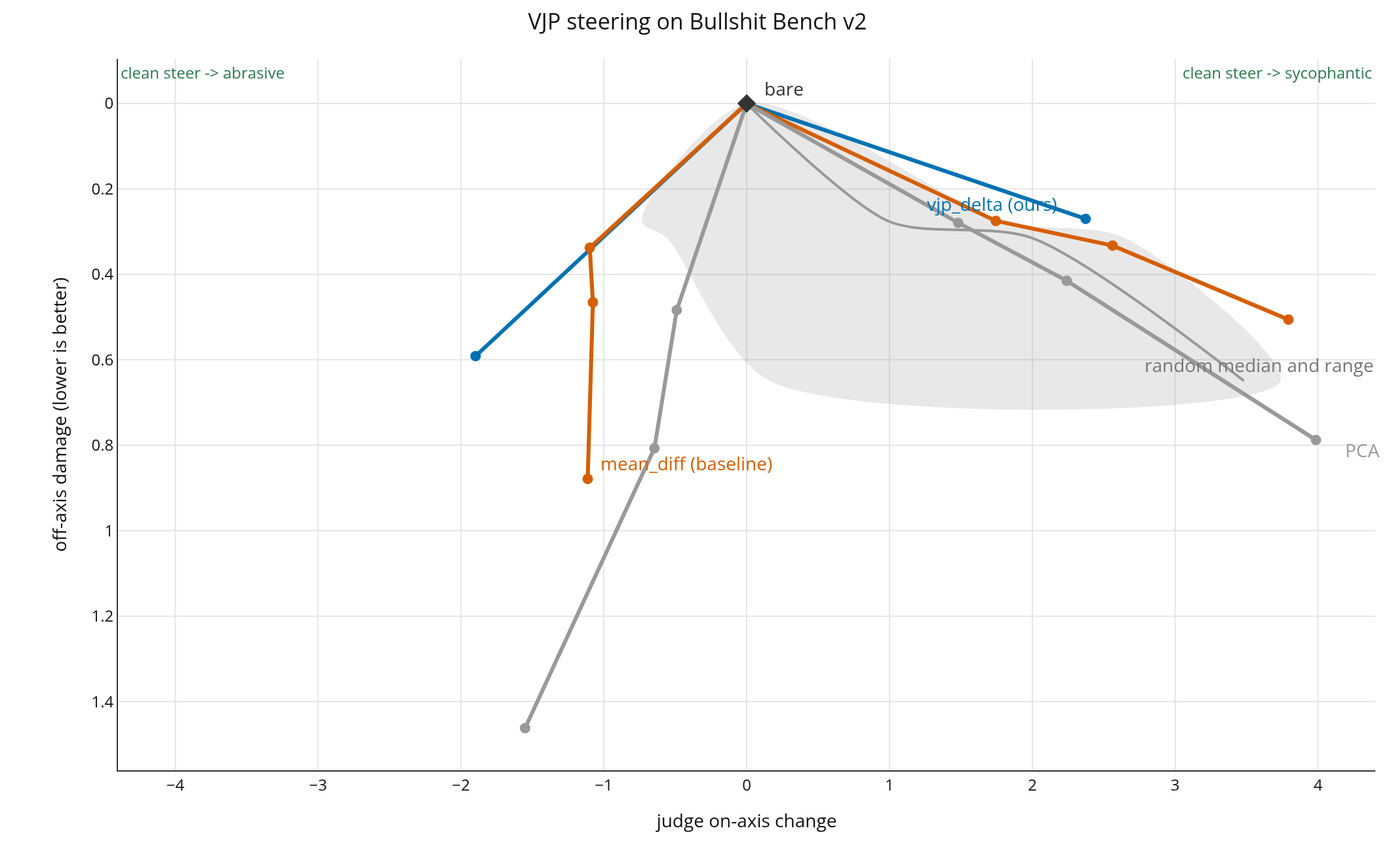
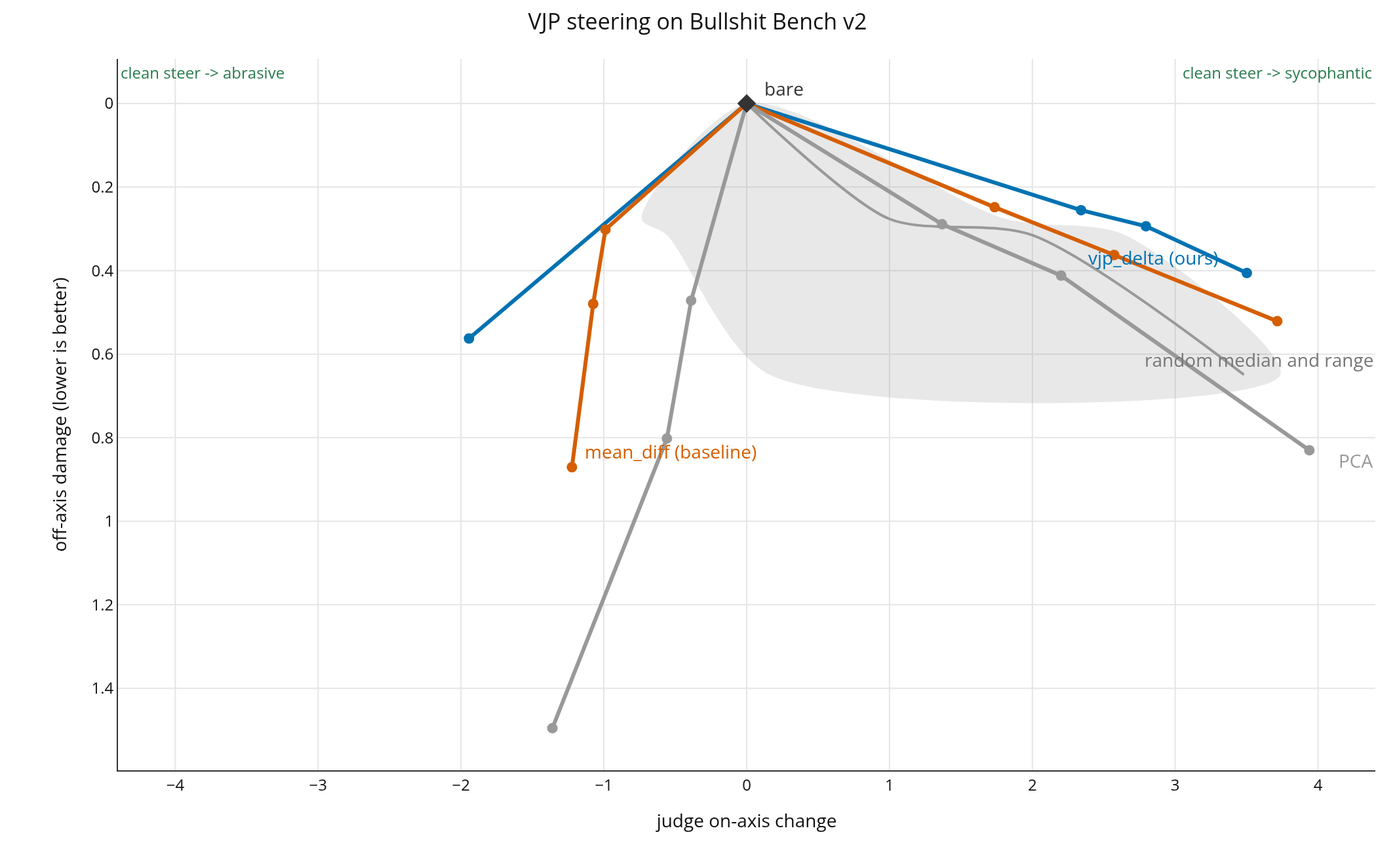
Plot three-seed method means

diff --git a/results.html b/results.html
@@ -1,2 +1,2 @@
-<!doctype html><meta charset='utf-8'><title>j-steer results</title><style>body{font:16px system-ui;max-width:900px;margin:2rem auto}table{border-collapse:collapse}th,td{padding:.35rem .7rem;border-bottom:1px solid #ccc}th{text-align:left}img{max-width:100%}</style><h1>Results</h1><p>All rows use the same all-100 evaluation cohort. The figure shows both steering directions. The random cone shows ten vectors until fewer than half have two coherent arms. The table reports rejected arms.</p><div style="height:658px; width:1064px;">                        <script>window.PlotlyConfig = {MathJaxConfig: 'local'};</script>
-        <script charset="utf-8" src="https://cdn.plot.ly/plotly-3.7.0.min.js" integrity="sha256-jvTGqxNp8AGWEcvNLVuKr+8j5dGe9Yw51LQkmDH+IYA=" crossorigin="anonymous"></script>                <div id="2fdaddd0-cabd-411b-9054-f637d6e48518" class="plotly-graph-div" style="height:100%; width:100%;"></div>            <script>                window.PLOTLYENV=window.PLOTLYENV || {};                                if (document.getElementById("2fdaddd0-cabd-411b-9054-f637d6e48518")) {                    Plotly.newPlot(                        "2fdaddd0-cabd-411b-9054-f637d6e48518",                        [{"fill":"toself","fillcolor":"rgba(150,150,150,0.22)","hoverinfo":"skip","line":{"color":"rgba(150,150,150,0)","shape":"spline","smoothing":0.8,"width":0},"showlegend":false,"x":[0.0,-0.73525,-0.558,0.16175,3.7377499999999997,2.65025,1.8062499999999997,0.0],"y":[0.0,0.27549999999999997,0.31499999999999995,0.6492500000000001,0.6492500000000001,0.31499999999999995,0.27549999999999997,0.0],"type":"scatter"},{"hoverinfo":"skip","line":{"color":"#999999","shape":"spline","smoothing":0.8,"width":2},"mode":"lines","showlegend":false,"x":[0,0.0,0.9933749999999999,1.9989999999999999,3.4811249999999996],"y":[0,0.0,0.27549999999999997,0.31499999999999995,0.6492500000000001],"type":"scatter"},{"hovertemplate":"vjp_delta (ours)\u003cbr\u003e%{text}\u003cbr\u003eeffect=%{x:.3f}\u003cbr\u003edamage=%{y:.3f}\u003cextra\u003e\u003c\u002fextra\u003e","line":{"color":"#0072b2","width":3},"marker":{"color":"#0072b2","size":8},"mode":"lines+markers","showlegend":false,"text":["bare","C=0.176777"],"x":[0,2.373],"y":[0,0.27],"type":"scatter"},{"hovertemplate":"vjp_delta (ours)\u003cbr\u003e%{text}\u003cbr\u003eeffect=%{x:.3f}\u003cbr\u003edamage=%{y:.3f}\u003cextra\u003e\u003c\u002fextra\u003e","line":{"color":"#0072b2","width":3},"marker":{"color":"#0072b2","size":8},"mode":"lines+markers","showlegend":false,"text":["bare","C=0.176777"],"x":[0,-1.8977499999999998],"y":[0,0.59125],"type":"scatter"},{"hovertemplate":"mean_diff (baseline)\u003cbr\u003e%{text}\u003cbr\u003eeffect=%{x:.3f}\u003cbr\u003edamage=%{y:.3f}\u003cextra\u003e\u003c\u002fextra\u003e","line":{"color":"#d55e00","width":3},"marker":{"color":"#d55e00","size":8},"mode":"lines+markers","showlegend":false,"text":["bare","C=0.353553","C=0.5","C=0.707107"],"x":[0,1.7442499999999996,2.56125,3.7924999999999995],"y":[0,0.27475,0.3324999999999999,0.50575],"type":"scatter"},{"hovertemplate":"mean_diff (baseline)\u003cbr\u003e%{text}\u003cbr\u003eeffect=%{x:.3f}\u003cbr\u003edamage=%{y:.3f}\u003cextra\u003e\u003c\u002fextra\u003e","line":{"color":"#d55e00","width":3},"marker":{"color":"#d55e00","size":8},"mode":"lines+markers","showlegend":false,"text":["bare","C=0.353553","C=0.5","C=0.707107"],"x":[0,-1.0985,-1.0765,-1.1127500000000001],"y":[0,0.33775,0.46525000000000005,0.87875],"type":"scatter"},{"hovertemplate":"PCA\u003cbr\u003e%{text}\u003cbr\u003eeffect=%{x:.3f}\u003cbr\u003edamage=%{y:.3f}\u003cextra\u003e\u003c\u002fextra\u003e","line":{"color":"#999999","width":3},"marker":{"color":"#999999","size":8},"mode":"lines+markers","showlegend":false,"text":["bare","C=0.5","C=0.707107","C=1"],"x":[0,1.4807499999999996,2.241,3.9849999999999994],"y":[0,0.27925,0.4149999999999999,0.7875],"type":"scatter"},{"hovertemplate":"PCA\u003cbr\u003e%{text}\u003cbr\u003eeffect=%{x:.3f}\u003cbr\u003edamage=%{y:.3f}\u003cextra\u003e\u003c\u002fextra\u003e","line":{"color":"#999999","width":3},"marker":{"color":"#999999","size":8},"mode":"lines+markers","showlegend":false,"text":["bare","C=0.5","C=0.707107","C=1"],"x":[0,-0.48925,-0.64575,-1.5515],"y":[0,0.48349999999999993,0.8069999999999999,1.46225],"type":"scatter"},{"hoverinfo":"skip","marker":{"color":"#333333","size":11,"symbol":"diamond"},"mode":"markers","showlegend":false,"x":[0],"y":[0],"type":"scatter"}],                        {"template":{"data":{"histogram2dcontour":[{"type":"histogram2dcontour","colorbar":{"outlinewidth":0,"ticks":""},"colorscale":[[0.0,"#0d0887"],[0.1111111111111111,"#46039f"],[0.2222222222222222,"#7201a8"],[0.3333333333333333,"#9c179e"],[0.4444444444444444,"#bd3786"],[0.5555555555555556,"#d8576b"],[0.6666666666666666,"#ed7953"],[0.7777777777777778,"#fb9f3a"],[0.8888888888888888,"#fdca26"],[1.0,"#f0f921"]]}],"choropleth":[{"type":"choropleth","colorbar":{"outlinewidth":0,"ticks":""}}],"histogram2d":[{"type":"histogram2d","colorbar":{"outlinewidth":0,"ticks":""},"colorscale":[[0.0,"#0d0887"],[0.1111111111111111,"#46039f"],[0.2222222222222222,"#7201a8"],[0.3333333333333333,"#9c179e"],[0.4444444444444444,"#bd3786"],[0.5555555555555556,"#d8576b"],[0.6666666666666666,"#ed7953"],[0.7777777777777778,"#fb9f3a"],[0.8888888888888888,"#fdca26"],[1.0,"#f0f921"]]}],"heatmap":[{"type":"heatmap","colorbar":{"outlinewidth":0,"ticks":""},"colorscale":[[0.0,"#0d0887"],[0.1111111111111111,"#46039f"],[0.2222222222222222,"#7201a8"],[0.3333333333333333,"#9c179e"],[0.4444444444444444,"#bd3786"],[0.5555555555555556,"#d8576b"],[0.6666666666666666,"#ed7953"],[0.7777777777777778,"#fb9f3a"],[0.8888888888888888,"#fdca26"],[1.0,"#f0f921"]]}],"contourcarpet":[{"type":"contourcarpet","colorbar":{"outlinewidth":0,"ticks":""}}],"contour":[{"type":"contour","colorbar":{"outlinewidth":0,"ticks":""},"colorscale":[[0.0,"#0d0887"],[0.1111111111111111,"#46039f"],[0.2222222222222222,"#7201a8"],[0.3333333333333333,"#9c179e"],[0.4444444444444444,"#bd3786"],[0.5555555555555556,"#d8576b"],[0.6666666666666666,"#ed7953"],[0.7777777777777778,"#fb9f3a"],[0.8888888888888888,"#fdca26"],[1.0,"#f0f921"]]}],"surface":[{"type":"surface","colorbar":{"outlinewidth":0,"ticks":""},"colorscale":[[0.0,"#0d0887"],[0.1111111111111111,"#46039f"],[0.2222222222222222,"#7201a8"],[0.3333333333333333,"#9c179e"],[0.4444444444444444,"#bd3786"],[0.5555555555555556,"#d8576b"],[0.6666666666666666,"#ed7953"],[0.7777777777777778,"#fb9f3a"],[0.8888888888888888,"#fdca26"],[1.0,"#f0f921"]]}],"mesh3d":[{"type":"mesh3d","colorbar":{"outlinewidth":0,"ticks":""}}],"scatter":[{"fillpattern":{"fillmode":"overlay","size":10,"solidity":0.2},"type":"scatter"}],"parcoords":[{"type":"parcoords","line":{"colorbar":{"outlinewidth":0,"ticks":""}}}],"scatterpolargl":[{"type":"scatterpolargl","marker":{"colorbar":{"outlinewidth":0,"ticks":""}}}],"bar":[{"error_x":{"color":"#2a3f5f"},"error_y":{"color":"#2a3f5f"},"marker":{"line":{"color":"#E5ECF6","width":0.5},"pattern":{"fillmode":"overlay","size":10,"solidity":0.2}},"type":"bar"}],"scattergeo":[{"type":"scattergeo","marker":{"colorbar":{"outlinewidth":0,"ticks":""}}}],"scatterpolar":[{"type":"scatterpolar","marker":{"colorbar":{"outlinewidth":0,"ticks":""}}}],"histogram":[{"marker":{"pattern":{"fillmode":"overlay","size":10,"solidity":0.2}},"type":"histogram"}],"scattergl":[{"type":"scattergl","marker":{"colorbar":{"outlinewidth":0,"ticks":""}}}],"scatter3d":[{"type":"scatter3d","line":{"colorbar":{"outlinewidth":0,"ticks":""}},"marker":{"colorbar":{"outlinewidth":0,"ticks":""}}}],"scattermap":[{"type":"scattermap","marker":{"colorbar":{"outlinewidth":0,"ticks":""}}}],"scattermapbox":[{"type":"scattermapbox","marker":{"colorbar":{"outlinewidth":0,"ticks":""}}}],"scatterternary":[{"type":"scatterternary","marker":{"colorbar":{"outlinewidth":0,"ticks":""}}}],"scattercarpet":[{"type":"scattercarpet","marker":{"colorbar":{"outlinewidth":0,"ticks":""}}}],"carpet":[{"aaxis":{"endlinecolor":"#2a3f5f","gridcolor":"white","linecolor":"white","minorgridcolor":"white","startlinecolor":"#2a3f5f"},"baxis":{"endlinecolor":"#2a3f5f","gridcolor":"white","linecolor":"white","minorgridcolor":"white","startlinecolor":"#2a3f5f"},"type":"carpet"}],"table":[{"cells":{"fill":{"color":"#EBF0F8"},"line":{"color":"white"}},"header":{"fill":{"color":"#C8D4E3"},"line":{"color":"white"}},"type":"table"}],"barpolar":[{"marker":{"line":{"color":"#E5ECF6","width":0.5},"pattern":{"fillmode":"overlay","size":10,"solidity":0.2}},"type":"barpolar"}],"pie":[{"automargin":true,"type":"pie"}]},"layout":{"autotypenumbers":"strict","colorway":["#636efa","#EF553B","#00cc96","#ab63fa","#FFA15A","#19d3f3","#FF6692","#B6E880","#FF97FF","#FECB52"],"font":{"color":"#2a3f5f"},"hovermode":"closest","hoverlabel":{"align":"left"},"paper_bgcolor":"white","plot_bgcolor":"#E5ECF6","polar":{"bgcolor":"#E5ECF6","angularaxis":{"gridcolor":"white","linecolor":"white","ticks":""},"radialaxis":{"gridcolor":"white","linecolor":"white","ticks":""}},"ternary":{"bgcolor":"#E5ECF6","aaxis":{"gridcolor":"white","linecolor":"white","ticks":""},"baxis":{"gridcolor":"white","linecolor":"white","ticks":""},"caxis":{"gridcolor":"white","linecolor":"white","ticks":""}},"coloraxis":{"colorbar":{"outlinewidth":0,"ticks":""}},"colorscale":{"sequential":[[0.0,"#0d0887"],[0.1111111111111111,"#46039f"],[0.2222222222222222,"#7201a8"],[0.3333333333333333,"#9c179e"],[0.4444444444444444,"#bd3786"],[0.5555555555555556,"#d8576b"],[0.6666666666666666,"#ed7953"],[0.7777777777777778,"#fb9f3a"],[0.8888888888888888,"#fdca26"],[1.0,"#f0f921"]],"sequentialminus":[[0.0,"#0d0887"],[0.1111111111111111,"#46039f"],[0.2222222222222222,"#7201a8"],[0.3333333333333333,"#9c179e"],[0.4444444444444444,"#bd3786"],[0.5555555555555556,"#d8576b"],[0.6666666666666666,"#ed7953"],[0.7777777777777778,"#fb9f3a"],[0.8888888888888888,"#fdca26"],[1.0,"#f0f921"]],"diverging":[[0,"#8e0152"],[0.1,"#c51b7d"],[0.2,"#de77ae"],[0.3,"#f1b6da"],[0.4,"#fde0ef"],[0.5,"#f7f7f7"],[0.6,"#e6f5d0"],[0.7,"#b8e186"],[0.8,"#7fbc41"],[0.9,"#4d9221"],[1,"#276419"]]},"xaxis":{"gridcolor":"white","linecolor":"white","ticks":"","title":{"standoff":15},"zerolinecolor":"white","automargin":true,"zerolinewidth":2},"yaxis":{"gridcolor":"white","linecolor":"white","ticks":"","title":{"standoff":15},"zerolinecolor":"white","automargin":true,"zerolinewidth":2},"scene":{"xaxis":{"backgroundcolor":"#E5ECF6","gridcolor":"white","linecolor":"white","showbackground":true,"ticks":"","zerolinecolor":"white","gridwidth":2},"yaxis":{"backgroundcolor":"#E5ECF6","gridcolor":"white","linecolor":"white","showbackground":true,"ticks":"","zerolinecolor":"white","gridwidth":2},"zaxis":{"backgroundcolor":"#E5ECF6","gridcolor":"white","linecolor":"white","showbackground":true,"ticks":"","zerolinecolor":"white","gridwidth":2}},"shapedefaults":{"line":{"color":"#2a3f5f"}},"annotationdefaults":{"arrowcolor":"#2a3f5f","arrowhead":0,"arrowwidth":1},"geo":{"bgcolor":"white","landcolor":"#E5ECF6","subunitcolor":"white","showland":true,"showlakes":true,"lakecolor":"white"},"title":{"x":0.05},"mapbox":{"style":"light"}}},"annotations":[{"font":{"color":"#0072b2","size":14},"showarrow":false,"text":"vjp_delta (ours)","x":2.373,"xanchor":"right","xshift":-20,"y":0.27,"yshift":12},{"font":{"color":"#d55e00","size":14},"showarrow":false,"text":"mean_diff (baseline)","x":-1.1127500000000001,"xanchor":"left","xshift":8,"y":0.87875,"yshift":12},{"font":{"color":"#999999","size":14},"showarrow":false,"text":"PCA","x":3.9849999999999994,"xanchor":"left","xshift":20,"y":0.7875,"yshift":-8},{"font":{"color":"#333333","size":14},"showarrow":false,"text":"bare","x":0,"xshift":28,"y":0,"yshift":12},{"font":{"color":"#777777","size":14},"showarrow":false,"text":"random median and range","x":3.4811249999999996,"xshift":12,"y":0.6492500000000001,"yshift":12},{"font":{"color":"#287a4d","size":12},"showarrow":false,"text":"clean steer -\u003e abrasive","x":0,"xanchor":"left","xref":"paper","y":1,"yref":"paper"},{"font":{"color":"#287a4d","size":12},"showarrow":false,"text":"clean steer -\u003e sycophantic","x":1,"xanchor":"right","xref":"paper","y":1,"yref":"paper"}],"title":{"text":"VJP steering on Bullshit Bench v2","x":0.5,"xanchor":"center"},"margin":{"l":90,"r":15,"t":45,"b":70},"font":{"color":"#111"},"xaxis":{"title":{"text":"judge on-axis change"},"range":[-4.401000000000001,4.401000000000001],"showline":true,"linecolor":"#333333","gridcolor":"#e5e5e5","zeroline":false},"yaxis":{"title":{"text":"off-axis damage (lower is better)"},"showline":true,"linecolor":"#333333","gridcolor":"#e5e5e5","zeroline":false,"autorange":"reversed"},"width":1064,"height":658,"plot_bgcolor":"white","paper_bgcolor":"white","showlegend":false},                        {"responsive": true}                    )                };            </script>        </div><table><thead><tr><th>method</th><th>steer dir</th><th>seeds</th><th>arms</th><th>rejected</th><th>peak on-axis</th><th>damage at peak</th></tr></thead><tbody><tr><td>vjp_delta</td><td>-C</td><td>1</td><td>1</td><td>0</td><td>-1.898</td><td>0.591</td></tr><tr><td>vjp_delta</td><td>+C</td><td>1</td><td>1</td><td>0</td><td>+2.373</td><td>0.270</td></tr><tr><td>mean_diff</td><td>-C</td><td>1</td><td>3</td><td>0</td><td>-1.077</td><td>0.465</td></tr><tr><td>mean_diff</td><td>+C</td><td>1</td><td>3</td><td>0</td><td>+3.792</td><td>0.506</td></tr><tr><td>pca</td><td>-C</td><td>1</td><td>3</td><td>0</td><td>-0.489</td><td>0.483</td></tr><tr><td>pca</td><td>+C</td><td>1</td><td>3</td><td>0</td><td>+3.985</td><td>0.787</td></tr><tr><td>random</td><td>-C</td><td>10</td><td>26</td><td>4</td><td>+4.075</td><td>0.723</td></tr><tr><td>random</td><td>+C</td><td>10</td><td>27</td><td>3</td><td>+3.851</td><td>0.470</td></tr></tbody></table>
+<!doctype html><meta charset='utf-8'><title>j-steer results</title><style>body{font:16px system-ui;max-width:900px;margin:2rem auto}table{border-collapse:collapse}th,td{padding:.35rem .7rem;border-bottom:1px solid #ccc}th{text-align:left}img{max-width:100%}</style><h1>Results</h1><p>All rows use the same all-100 evaluation cohort. Named-method points are means over three seeds. The figure shows both steering directions. The random cone shows ten vectors until fewer than half have two coherent arms. The table reports rejected arms.</p><div style="height:658px; width:1064px;">                        <script>window.PlotlyConfig = {MathJaxConfig: 'local'};</script>
+        <script charset="utf-8" src="https://cdn.plot.ly/plotly-3.7.0.min.js" integrity="sha256-jvTGqxNp8AGWEcvNLVuKr+8j5dGe9Yw51LQkmDH+IYA=" crossorigin="anonymous"></script>                <div id="1ad87648-8adc-443c-97fc-901f55921022" class="plotly-graph-div" style="height:100%; width:100%;"></div>            <script>                window.PLOTLYENV=window.PLOTLYENV || {};                                if (document.getElementById("1ad87648-8adc-443c-97fc-901f55921022")) {                    Plotly.newPlot(                        "1ad87648-8adc-443c-97fc-901f55921022",                        [{"fill":"toself","fillcolor":"rgba(150,150,150,0.22)","hoverinfo":"skip","line":{"color":"rgba(150,150,150,0)","shape":"spline","smoothing":0.8,"width":0},"showlegend":false,"x":[0.0,-0.73525,-0.558,0.16175,3.7377499999999997,2.65025,1.8062499999999997,0.0],"y":[0.0,0.27549999999999997,0.31499999999999995,0.6492500000000001,0.6492500000000001,0.31499999999999995,0.27549999999999997,0.0],"type":"scatter"},{"hoverinfo":"skip","line":{"color":"#999999","shape":"spline","smoothing":0.8,"width":2},"mode":"lines","showlegend":false,"x":[0,0.0,0.9933749999999999,1.9989999999999999,3.4811249999999996],"y":[0,0.0,0.27549999999999997,0.31499999999999995,0.6492500000000001],"type":"scatter"},{"hovertemplate":"vjp_delta (ours)\u003cbr\u003e%{text}\u003cbr\u003eeffect=%{x:.3f}\u003cbr\u003edamage=%{y:.3f}\u003cextra\u003e\u003c\u002fextra\u003e","line":{"color":"#0072b2","width":3},"marker":{"color":"#0072b2","size":8},"mode":"lines+markers","showlegend":false,"text":["bare","C=0.176777","C=0.25","C=0.353553"],"x":[0,2.3408333333333333,2.795166666666667,3.5015833333333335],"y":[0,0.2554166666666667,0.29374999999999996,0.40575000000000006],"type":"scatter"},{"hovertemplate":"vjp_delta (ours)\u003cbr\u003e%{text}\u003cbr\u003eeffect=%{x:.3f}\u003cbr\u003edamage=%{y:.3f}\u003cextra\u003e\u003c\u002fextra\u003e","line":{"color":"#0072b2","width":3},"marker":{"color":"#0072b2","size":8},"mode":"lines+markers","showlegend":false,"text":["bare","C=0.176777"],"x":[0,-1.9437499999999999],"y":[0,0.5624166666666667],"type":"scatter"},{"hovertemplate":"mean_diff (baseline)\u003cbr\u003e%{text}\u003cbr\u003eeffect=%{x:.3f}\u003cbr\u003edamage=%{y:.3f}\u003cextra\u003e\u003c\u002fextra\u003e","line":{"color":"#d55e00","width":3},"marker":{"color":"#d55e00","size":8},"mode":"lines+markers","showlegend":false,"text":["bare","C=0.353553","C=0.5","C=0.707107"],"x":[0,1.735583333333333,2.5725,3.7146666666666666],"y":[0,0.24825,0.3625,0.5210833333333333],"type":"scatter"},{"hovertemplate":"mean_diff (baseline)\u003cbr\u003e%{text}\u003cbr\u003eeffect=%{x:.3f}\u003cbr\u003edamage=%{y:.3f}\u003cextra\u003e\u003c\u002fextra\u003e","line":{"color":"#d55e00","width":3},"marker":{"color":"#d55e00","size":8},"mode":"lines+markers","showlegend":false,"text":["bare","C=0.353553","C=0.5","C=0.707107"],"x":[0,-0.9883333333333334,-1.0744166666666666,-1.2231666666666667],"y":[0,0.3015833333333333,0.47975,0.8705833333333334],"type":"scatter"},{"hovertemplate":"PCA\u003cbr\u003e%{text}\u003cbr\u003eeffect=%{x:.3f}\u003cbr\u003edamage=%{y:.3f}\u003cextra\u003e\u003c\u002fextra\u003e","line":{"color":"#999999","width":3},"marker":{"color":"#999999","size":8},"mode":"lines+markers","showlegend":false,"text":["bare","C=0.5","C=0.707107","C=1"],"x":[0,1.3683333333333332,2.2010833333333335,3.939333333333333],"y":[0,0.28891666666666665,0.4119166666666666,0.8301666666666666],"type":"scatter"},{"hovertemplate":"PCA\u003cbr\u003e%{text}\u003cbr\u003eeffect=%{x:.3f}\u003cbr\u003edamage=%{y:.3f}\u003cextra\u003e\u003c\u002fextra\u003e","line":{"color":"#999999","width":3},"marker":{"color":"#999999","size":8},"mode":"lines+markers","showlegend":false,"text":["bare","C=0.5","C=0.707107","C=1"],"x":[0,-0.38875,-0.55825,-1.3600000000000003],"y":[0,0.4718333333333333,0.8018333333333333,1.4954166666666666],"type":"scatter"},{"hoverinfo":"skip","marker":{"color":"#333333","size":11,"symbol":"diamond"},"mode":"markers","showlegend":false,"x":[0],"y":[0],"type":"scatter"}],                        {"template":{"data":{"histogram2dcontour":[{"type":"histogram2dcontour","colorbar":{"outlinewidth":0,"ticks":""},"colorscale":[[0.0,"#0d0887"],[0.1111111111111111,"#46039f"],[0.2222222222222222,"#7201a8"],[0.3333333333333333,"#9c179e"],[0.4444444444444444,"#bd3786"],[0.5555555555555556,"#d8576b"],[0.6666666666666666,"#ed7953"],[0.7777777777777778,"#fb9f3a"],[0.8888888888888888,"#fdca26"],[1.0,"#f0f921"]]}],"choropleth":[{"type":"choropleth","colorbar":{"outlinewidth":0,"ticks":""}}],"histogram2d":[{"type":"histogram2d","colorbar":{"outlinewidth":0,"ticks":""},"colorscale":[[0.0,"#0d0887"],[0.1111111111111111,"#46039f"],[0.2222222222222222,"#7201a8"],[0.3333333333333333,"#9c179e"],[0.4444444444444444,"#bd3786"],[0.5555555555555556,"#d8576b"],[0.6666666666666666,"#ed7953"],[0.7777777777777778,"#fb9f3a"],[0.8888888888888888,"#fdca26"],[1.0,"#f0f921"]]}],"heatmap":[{"type":"heatmap","colorbar":{"outlinewidth":0,"ticks":""},"colorscale":[[0.0,"#0d0887"],[0.1111111111111111,"#46039f"],[0.2222222222222222,"#7201a8"],[0.3333333333333333,"#9c179e"],[0.4444444444444444,"#bd3786"],[0.5555555555555556,"#d8576b"],[0.6666666666666666,"#ed7953"],[0.7777777777777778,"#fb9f3a"],[0.8888888888888888,"#fdca26"],[1.0,"#f0f921"]]}],"contourcarpet":[{"type":"contourcarpet","colorbar":{"outlinewidth":0,"ticks":""}}],"contour":[{"type":"contour","colorbar":{"outlinewidth":0,"ticks":""},"colorscale":[[0.0,"#0d0887"],[0.1111111111111111,"#46039f"],[0.2222222222222222,"#7201a8"],[0.3333333333333333,"#9c179e"],[0.4444444444444444,"#bd3786"],[0.5555555555555556,"#d8576b"],[0.6666666666666666,"#ed7953"],[0.7777777777777778,"#fb9f3a"],[0.8888888888888888,"#fdca26"],[1.0,"#f0f921"]]}],"surface":[{"type":"surface","colorbar":{"outlinewidth":0,"ticks":""},"colorscale":[[0.0,"#0d0887"],[0.1111111111111111,"#46039f"],[0.2222222222222222,"#7201a8"],[0.3333333333333333,"#9c179e"],[0.4444444444444444,"#bd3786"],[0.5555555555555556,"#d8576b"],[0.6666666666666666,"#ed7953"],[0.7777777777777778,"#fb9f3a"],[0.8888888888888888,"#fdca26"],[1.0,"#f0f921"]]}],"mesh3d":[{"type":"mesh3d","colorbar":{"outlinewidth":0,"ticks":""}}],"scatter":[{"fillpattern":{"fillmode":"overlay","size":10,"solidity":0.2},"type":"scatter"}],"parcoords":[{"type":"parcoords","line":{"colorbar":{"outlinewidth":0,"ticks":""}}}],"scatterpolargl":[{"type":"scatterpolargl","marker":{"colorbar":{"outlinewidth":0,"ticks":""}}}],"bar":[{"error_x":{"color":"#2a3f5f"},"error_y":{"color":"#2a3f5f"},"marker":{"line":{"color":"#E5ECF6","width":0.5},"pattern":{"fillmode":"overlay","size":10,"solidity":0.2}},"type":"bar"}],"scattergeo":[{"type":"scattergeo","marker":{"colorbar":{"outlinewidth":0,"ticks":""}}}],"scatterpolar":[{"type":"scatterpolar","marker":{"colorbar":{"outlinewidth":0,"ticks":""}}}],"histogram":[{"marker":{"pattern":{"fillmode":"overlay","size":10,"solidity":0.2}},"type":"histogram"}],"scattergl":[{"type":"scattergl","marker":{"colorbar":{"outlinewidth":0,"ticks":""}}}],"scatter3d":[{"type":"scatter3d","line":{"colorbar":{"outlinewidth":0,"ticks":""}},"marker":{"colorbar":{"outlinewidth":0,"ticks":""}}}],"scattermap":[{"type":"scattermap","marker":{"colorbar":{"outlinewidth":0,"ticks":""}}}],"scattermapbox":[{"type":"scattermapbox","marker":{"colorbar":{"outlinewidth":0,"ticks":""}}}],"scatterternary":[{"type":"scatterternary","marker":{"colorbar":{"outlinewidth":0,"ticks":""}}}],"scattercarpet":[{"type":"scattercarpet","marker":{"colorbar":{"outlinewidth":0,"ticks":""}}}],"carpet":[{"aaxis":{"endlinecolor":"#2a3f5f","gridcolor":"white","linecolor":"white","minorgridcolor":"white","startlinecolor":"#2a3f5f"},"baxis":{"endlinecolor":"#2a3f5f","gridcolor":"white","linecolor":"white","minorgridcolor":"white","startlinecolor":"#2a3f5f"},"type":"carpet"}],"table":[{"cells":{"fill":{"color":"#EBF0F8"},"line":{"color":"white"}},"header":{"fill":{"color":"#C8D4E3"},"line":{"color":"white"}},"type":"table"}],"barpolar":[{"marker":{"line":{"color":"#E5ECF6","width":0.5},"pattern":{"fillmode":"overlay","size":10,"solidity":0.2}},"type":"barpolar"}],"pie":[{"automargin":true,"type":"pie"}]},"layout":{"autotypenumbers":"strict","colorway":["#636efa","#EF553B","#00cc96","#ab63fa","#FFA15A","#19d3f3","#FF6692","#B6E880","#FF97FF","#FECB52"],"font":{"color":"#2a3f5f"},"hovermode":"closest","hoverlabel":{"align":"left"},"paper_bgcolor":"white","plot_bgcolor":"#E5ECF6","polar":{"bgcolor":"#E5ECF6","angularaxis":{"gridcolor":"white","linecolor":"white","ticks":""},"radialaxis":{"gridcolor":"white","linecolor":"white","ticks":""}},"ternary":{"bgcolor":"#E5ECF6","aaxis":{"gridcolor":"white","linecolor":"white","ticks":""},"baxis":{"gridcolor":"white","linecolor":"white","ticks":""},"caxis":{"gridcolor":"white","linecolor":"white","ticks":""}},"coloraxis":{"colorbar":{"outlinewidth":0,"ticks":""}},"colorscale":{"sequential":[[0.0,"#0d0887"],[0.1111111111111111,"#46039f"],[0.2222222222222222,"#7201a8"],[0.3333333333333333,"#9c179e"],[0.4444444444444444,"#bd3786"],[0.5555555555555556,"#d8576b"],[0.6666666666666666,"#ed7953"],[0.7777777777777778,"#fb9f3a"],[0.8888888888888888,"#fdca26"],[1.0,"#f0f921"]],"sequentialminus":[[0.0,"#0d0887"],[0.1111111111111111,"#46039f"],[0.2222222222222222,"#7201a8"],[0.3333333333333333,"#9c179e"],[0.4444444444444444,"#bd3786"],[0.5555555555555556,"#d8576b"],[0.6666666666666666,"#ed7953"],[0.7777777777777778,"#fb9f3a"],[0.8888888888888888,"#fdca26"],[1.0,"#f0f921"]],"diverging":[[0,"#8e0152"],[0.1,"#c51b7d"],[0.2,"#de77ae"],[0.3,"#f1b6da"],[0.4,"#fde0ef"],[0.5,"#f7f7f7"],[0.6,"#e6f5d0"],[0.7,"#b8e186"],[0.8,"#7fbc41"],[0.9,"#4d9221"],[1,"#276419"]]},"xaxis":{"gridcolor":"white","linecolor":"white","ticks":"","title":{"standoff":15},"zerolinecolor":"white","automargin":true,"zerolinewidth":2},"yaxis":{"gridcolor":"white","linecolor":"white","ticks":"","title":{"standoff":15},"zerolinecolor":"white","automargin":true,"zerolinewidth":2},"scene":{"xaxis":{"backgroundcolor":"#E5ECF6","gridcolor":"white","linecolor":"white","showbackground":true,"ticks":"","zerolinecolor":"white","gridwidth":2},"yaxis":{"backgroundcolor":"#E5ECF6","gridcolor":"white","linecolor":"white","showbackground":true,"ticks":"","zerolinecolor":"white","gridwidth":2},"zaxis":{"backgroundcolor":"#E5ECF6","gridcolor":"white","linecolor":"white","showbackground":true,"ticks":"","zerolinecolor":"white","gridwidth":2}},"shapedefaults":{"line":{"color":"#2a3f5f"}},"annotationdefaults":{"arrowcolor":"#2a3f5f","arrowhead":0,"arrowwidth":1},"geo":{"bgcolor":"white","landcolor":"#E5ECF6","subunitcolor":"white","showland":true,"showlakes":true,"lakecolor":"white"},"title":{"x":0.05},"mapbox":{"style":"light"}}},"annotations":[{"font":{"color":"#0072b2","size":14},"showarrow":false,"text":"vjp_delta (ours)","x":3.5015833333333335,"xanchor":"right","xshift":-20,"y":0.40575000000000006,"yshift":12},{"font":{"color":"#d55e00","size":14},"showarrow":false,"text":"mean_diff (baseline)","x":-1.2231666666666667,"xanchor":"left","xshift":8,"y":0.8705833333333334,"yshift":12},{"font":{"color":"#999999","size":14},"showarrow":false,"text":"PCA","x":3.939333333333333,"xanchor":"left","xshift":20,"y":0.8301666666666666,"yshift":-8},{"font":{"color":"#333333","size":14},"showarrow":false,"text":"bare","x":0,"xshift":28,"y":0,"yshift":12},{"font":{"color":"#777777","size":14},"showarrow":false,"text":"random median and range","x":3.4811249999999996,"xshift":12,"y":0.6492500000000001,"yshift":12},{"font":{"color":"#287a4d","size":12},"showarrow":false,"text":"clean steer -\u003e abrasive","x":0,"xanchor":"left","xref":"paper","y":1,"yref":"paper"},{"font":{"color":"#287a4d","size":12},"showarrow":false,"text":"clean steer -\u003e sycophantic","x":1,"xanchor":"right","xref":"paper","y":1,"yref":"paper"}],"title":{"text":"VJP steering on Bullshit Bench v2","x":0.5,"xanchor":"center"},"margin":{"l":90,"r":15,"t":45,"b":70},"font":{"color":"#111"},"xaxis":{"title":{"text":"judge on-axis change"},"range":[-4.401000000000001,4.401000000000001],"showline":true,"linecolor":"#333333","gridcolor":"#e5e5e5","zeroline":false},"yaxis":{"title":{"text":"off-axis damage (lower is better)"},"showline":true,"linecolor":"#333333","gridcolor":"#e5e5e5","zeroline":false,"autorange":"reversed"},"width":1064,"height":658,"plot_bgcolor":"white","paper_bgcolor":"white","showlegend":false},                        {"responsive": true}                    )                };            </script>        </div><table><thead><tr><th>method</th><th>steer dir</th><th>seeds</th><th>arms</th><th>rejected</th><th>peak on-axis</th><th>damage at peak</th></tr></thead><tbody><tr><td>vjp_delta</td><td>-C</td><td>3</td><td>1</td><td>5</td><td>-1.944</td><td>0.562</td></tr><tr><td>vjp_delta</td><td>+C</td><td>3</td><td>3</td><td>0</td><td>+3.502</td><td>0.406</td></tr><tr><td>mean_diff</td><td>-C</td><td>3</td><td>3</td><td>0</td><td>-1.223</td><td>0.871</td></tr><tr><td>mean_diff</td><td>+C</td><td>3</td><td>3</td><td>0</td><td>+3.715</td><td>0.521</td></tr><tr><td>pca</td><td>-C</td><td>3</td><td>3</td><td>0</td><td>-1.360</td><td>1.495</td></tr><tr><td>pca</td><td>+C</td><td>3</td><td>3</td><td>0</td><td>+3.939</td><td>0.830</td></tr><tr><td>random</td><td>-C</td><td>10</td><td>30</td><td>4</td><td>+4.075</td><td>0.723</td></tr><tr><td>random</td><td>+C</td><td>10</td><td>30</td><td>3</td><td>+3.851</td><td>0.470</td></tr></tbody></table>

diff --git a/src/jsteer/results.py b/src/jsteer/results.py
@@ -2,7 +2,7 @@
 
 import csv
 import html
-from statistics import median
+from statistics import mean, median
 from html.parser import HTMLParser
 from pathlib import Path
 
@@ -13,6 +13,7 @@ ROOT = Path(__file__).resolve().parents[2]
 DATA = ROOT / "data" / "results.csv"
 METHODS = ("vjp_delta", "mean_diff", "pca", "random")
 RANDOM_SEEDS = 10
+NAMED_SEEDS = {0, 1, 2}
 FIELDS = (
     "model", "tokenizer", "prompt_template", "data_hash", "eval_cohort", "layers",
     "batch_size", "date", "source_run", "method", "seed", "C", "side", "effect",
@@ -56,12 +57,33 @@ def _rows(path: Path = DATA) -> list[dict]:
         row["admissible"] = row["admissible"].lower() == "true"
     if len({row["seed"] for row in rows if row["method"] == "random"}) != RANDOM_SEEDS:
         raise ValueError(f"the random cone needs exactly {RANDOM_SEEDS} seeds")
+    for method in METHODS[:-1]:
+        if {row["seed"] for row in rows if row["method"] == method} != NAMED_SEEDS:
+            raise ValueError(f"{method} needs exactly seeds {sorted(NAMED_SEEDS)}")
     return rows
+
+
+def _means(rows: list[dict]) -> list[dict]:
+    points = []
+    for method in METHODS[:-1]:
+        for C in sorted({row["C"] for row in rows if row["method"] == method}):
+            for side in ("+C", "-C"):
+                arms = [
+                    row for row in rows
+                    if row["method"] == method and row["C"] == C and row["side"] == side
+                    and row["admissible"]
+                ]
+                if {row["seed"] for row in arms} == NAMED_SEEDS:
+                    points.append({"method": method, "C": C, "side": side,
+                                   "effect": mean(row["effect"] for row in arms),
+                                   "off_axis_perturbation": mean(row["off_axis_perturbation"] for row in arms)})
+    return points
 
 
 def plot(rows: list[dict]) -> go.Figure:
     figure = go.Figure()
-    valid = [row for row in rows if row["admissible"]]
+    means = _means(rows)
+    valid = means + [row for row in rows if row["method"] == "random" and row["admissible"]]
     x_limit = 1.08 * max(abs(row["effect"]) for row in valid)
     random = [row for row in rows if row["method"] == "random"]
     random_seeds = sorted({row["seed"] for row in random})
@@ -94,7 +116,7 @@ def plot(rows: list[dict]) -> go.Figure:
 
     colors = {"vjp_delta": "#0072b2", "mean_diff": "#d55e00", "pca": "#999999"}
     for method in METHODS[:-1]:
-        method_rows = [row for row in valid if row["method"] == method]
+        method_rows = [row for row in means if row["method"] == method]
         if not method_rows:
             continue
         for side in ("+C", "-C"):
@@ -127,18 +149,19 @@ def plot(rows: list[dict]) -> go.Figure:
 
 
 def _summary(rows: list[dict]) -> list[list[str]]:
+    means = _means(rows)
     table = []
     for method in METHODS:
         for side in ("-C", "+C"):
             group = [row for row in rows if row["method"] == method and row["side"] == side]
-            live = [row for row in group if row["admissible"]]
-            peak = max(live, key=lambda row: row["effect"]) if live else None
+            live = [row for row in (means if method != "random" else group) if row["method"] == method and row["side"] == side]
+            peak = max(live, key=lambda row: abs(row["effect"])) if live else None
             table.append([
                 method,
                 side,
-                str(len({row["seed"] for row in live})),
+                str(RANDOM_SEEDS if method == "random" else len(NAMED_SEEDS) if live else 0),
                 str(len(live)),
-                str(len(group) - len(live)),
+                str(sum(not row["admissible"] for row in group)),
                 f"{peak['effect']:+.3f}" if peak else "-",
                 f"{peak['off_axis_perturbation']:.3f}" if peak else "-",
             ])
@@ -160,7 +183,7 @@ def _markdown(table: list[list[str]]) -> str:
     lines = [
         "# Results",
         "",
-        "All rows use the same all-100 evaluation cohort. The figure shows both steering directions.",
+        "All rows use the same all-100 evaluation cohort. Named-method points are means over three seeds.",
         "The random cone shows ten vectors until fewer than half have two coherent arms. The table reports rejected arms.",
         "",
         "![Judged effect against off-axis change](results.svg)",
@@ -183,8 +206,8 @@ def _html(table: list[list[str]], figure_html: str) -> str:
         "<style>body{font:16px system-ui;max-width:900px;margin:2rem auto}"
         "table{border-collapse:collapse}th,td{padding:.35rem .7rem;border-bottom:1px solid #ccc}"
         "th{text-align:left}img{max-width:100%}</style>"
-        "<h1>Results</h1><p>All rows use the same all-100 evaluation cohort. "
-        "The figure shows both steering directions. The random cone shows ten vectors until fewer "
+        "<h1>Results</h1><p>All rows use the same all-100 evaluation cohort. Named-method points "
+        "are means over three seeds. The figure shows both steering directions. The random cone shows ten vectors until fewer "
         f"than half have two coherent arms. The table reports rejected arms.</p>{figure_html}"
         f"<table><thead><tr>{head}</tr></thead><tbody>{body}</tbody></table>"
     )

diff --git a/results.md b/results.md
@@ -1,17 +1,17 @@
 # Results
 
-All rows use the same all-100 evaluation cohort. The figure shows both steering directions.
+All rows use the same all-100 evaluation cohort. Named-method points are means over three seeds.
 The random cone shows ten vectors until fewer than half have two coherent arms. The table reports rejected arms.
 
 ![Judged effect against off-axis change](results.svg)
 
 | method | steer dir | seeds | arms | rejected | peak on-axis | damage at peak |
 | --- | --- | --- | --- | --- | --- | --- |
-| vjp_delta | -C | 1 | 1 | 0 | -1.898 | 0.591 |
-| vjp_delta | +C | 1 | 1 | 0 | +2.373 | 0.270 |
-| mean_diff | -C | 1 | 3 | 0 | -1.077 | 0.465 |
-| mean_diff | +C | 1 | 3 | 0 | +3.792 | 0.506 |
-| pca | -C | 1 | 3 | 0 | -0.489 | 0.483 |
-| pca | +C | 1 | 3 | 0 | +3.985 | 0.787 |
-| random | -C | 10 | 26 | 4 | +4.075 | 0.723 |
-| random | +C | 10 | 27 | 3 | +3.851 | 0.470 |
+| vjp_delta | -C | 3 | 1 | 5 | -1.944 | 0.562 |
+| vjp_delta | +C | 3 | 3 | 0 | +3.502 | 0.406 |
+| mean_diff | -C | 3 | 3 | 0 | -1.223 | 0.871 |
+| mean_diff | +C | 3 | 3 | 0 | +3.715 | 0.521 |
+| pca | -C | 3 | 3 | 0 | -1.360 | 1.495 |
+| pca | +C | 3 | 3 | 0 | +3.939 | 0.830 |
+| random | -C | 10 | 30 | 4 | +4.075 | 0.723 |
+| random | +C | 10 | 30 | 3 | +3.851 | 0.470 |
